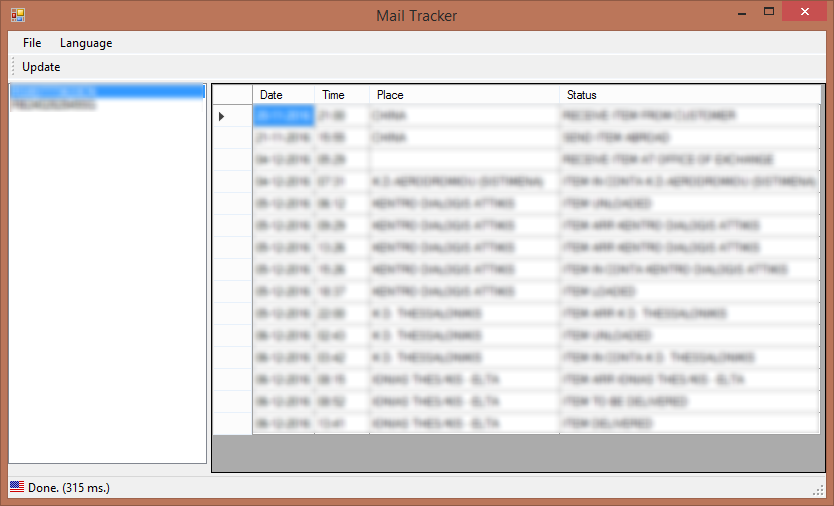
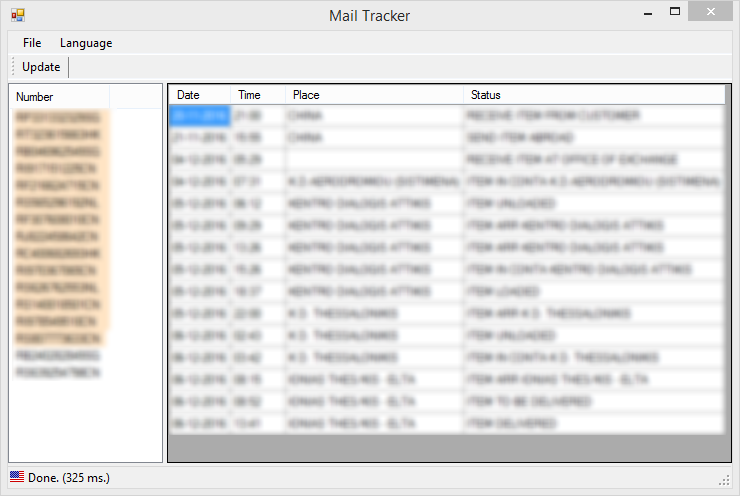
screenshot.png TODO

diff --git a/MailTracker/frmMain.cs b/MailTracker/frmMain.cs
@@ -220,14 +220,10 @@ namespace MailTracker
 // TODO: add focus and read from clipboard when new
 // TODO: doubleclick for editing
 // TODO: message box on delete
-// TODO: rename update -> edit                          +
 // TODO: update & update all
-// TODO: -- add closed flag to numbers                  +
 // TODO: -- add indication for closed
 // TODO: local storage
 // TODO: read from local storage when click
-// TODO: clear variables when list is empty             +
 // TODO: backup database
 // TODO: report generator
-// TODO: change listbox -> listview                     +
 // TODO: add closed to number form
